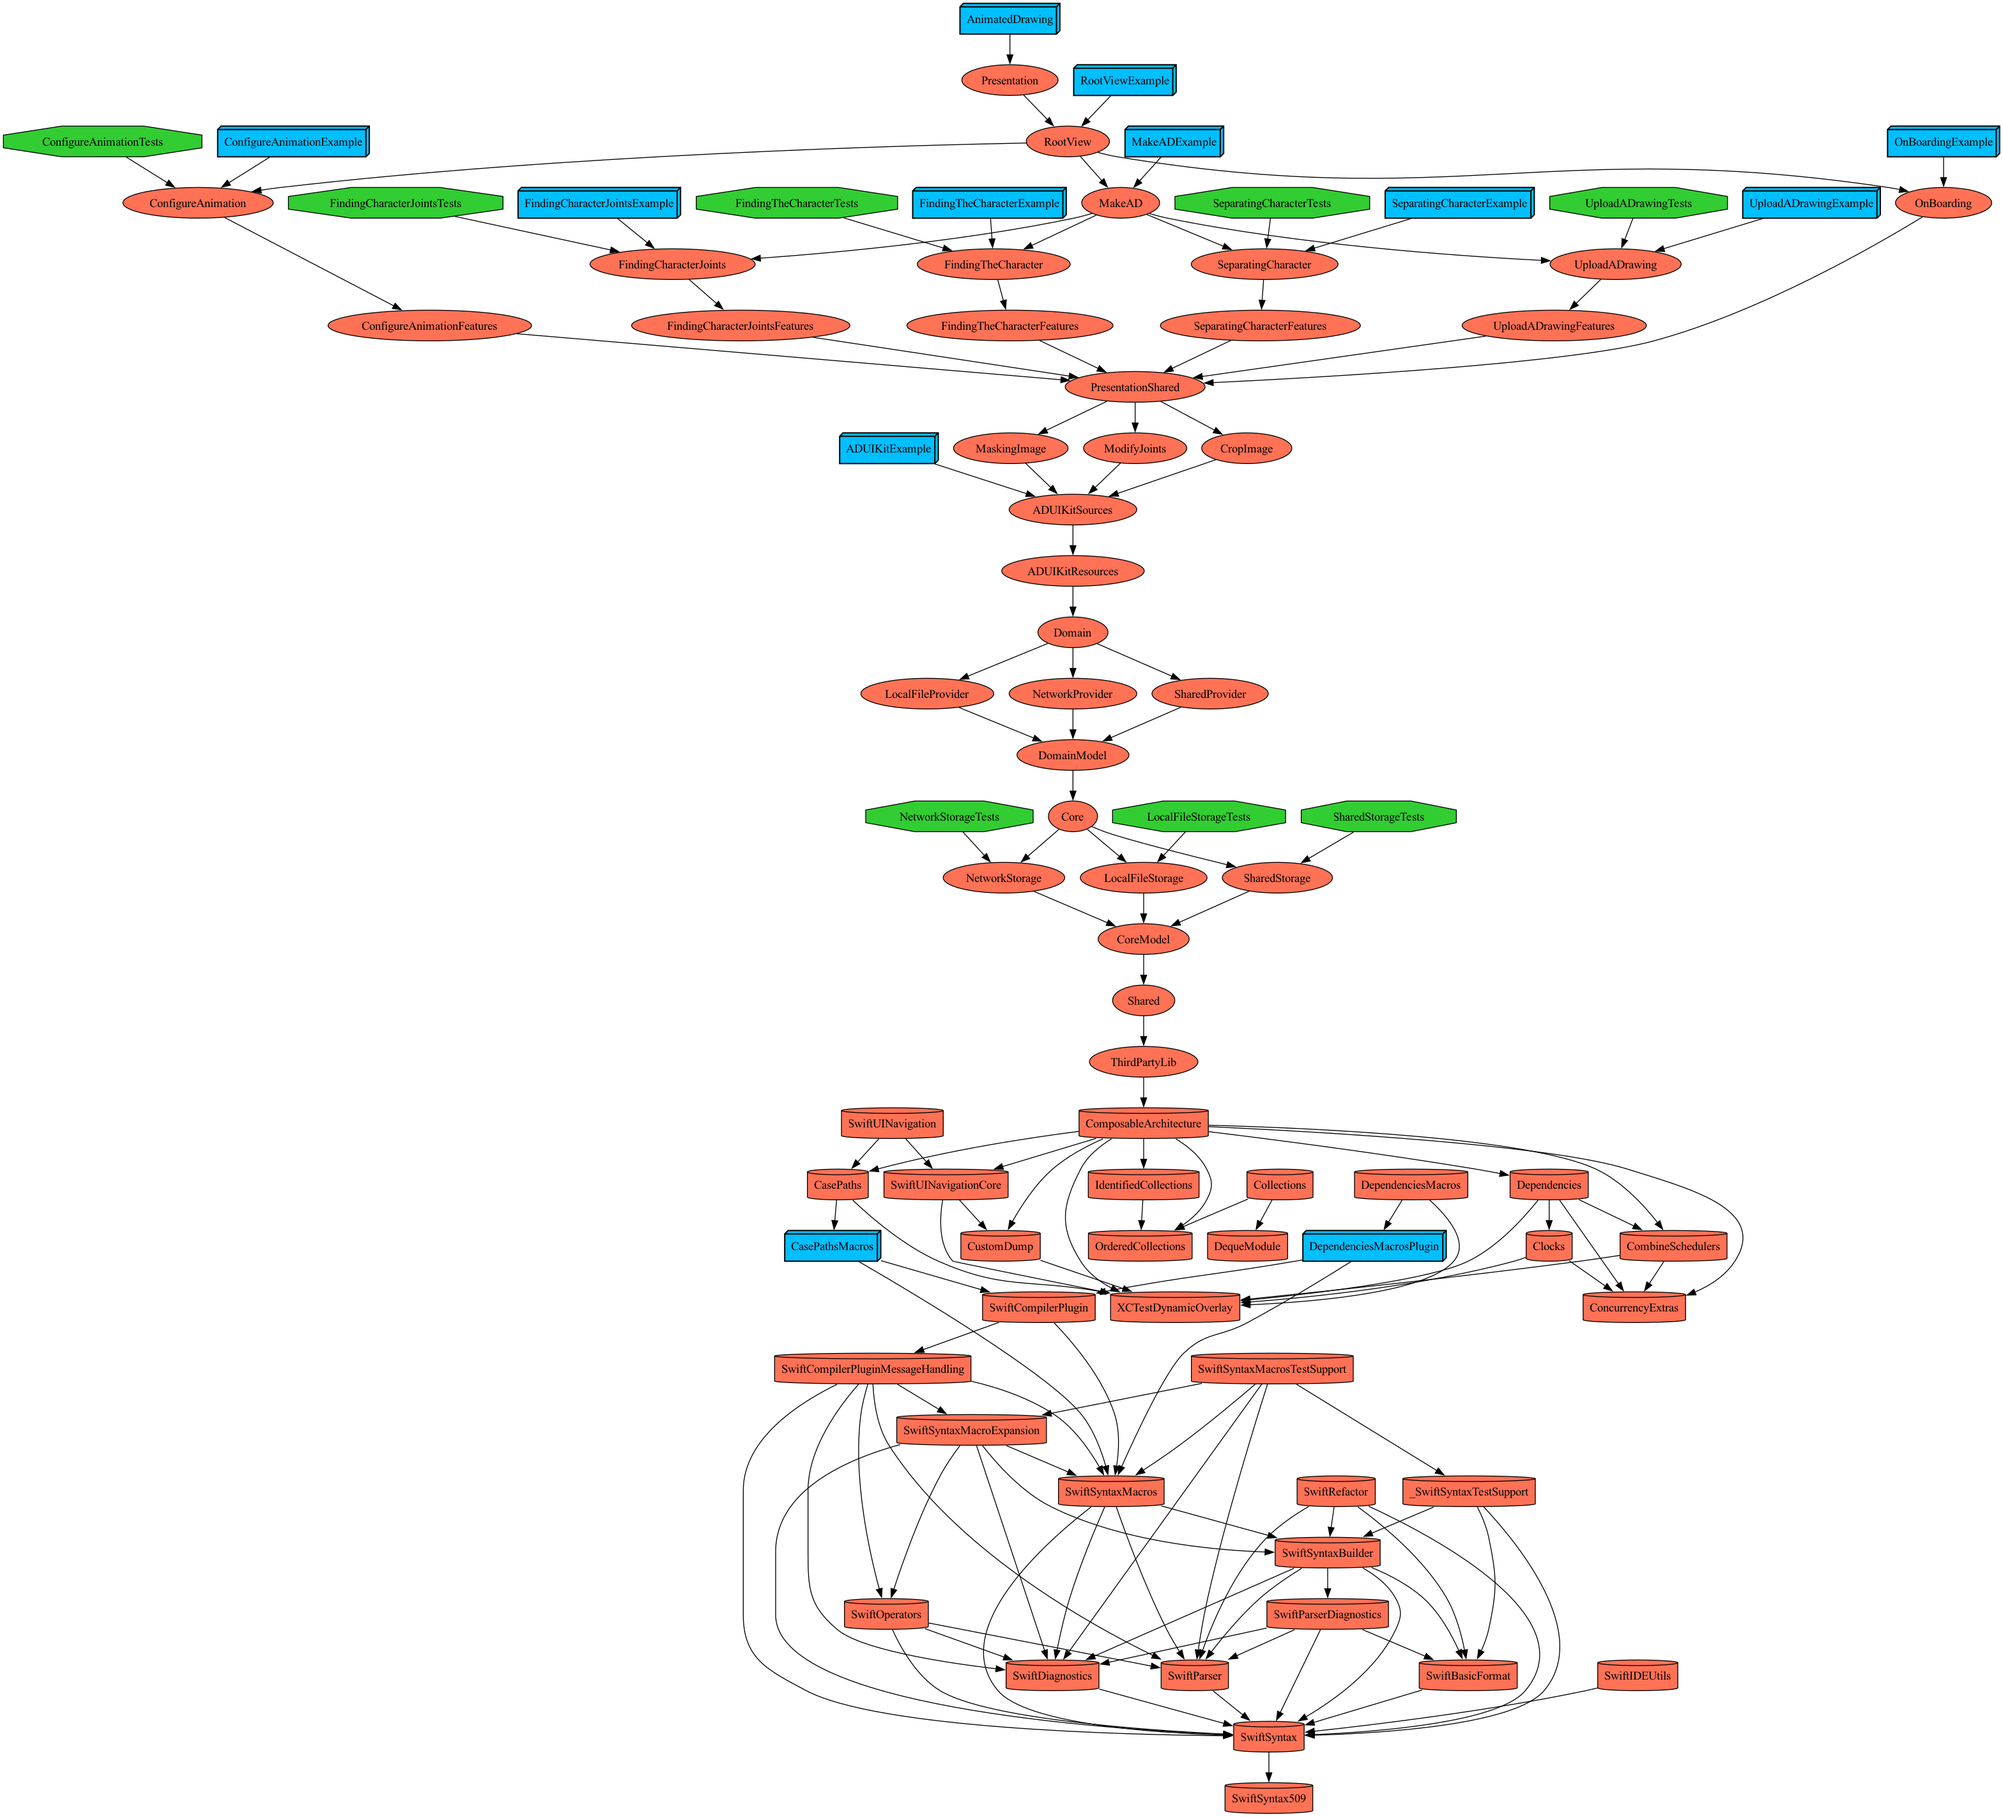
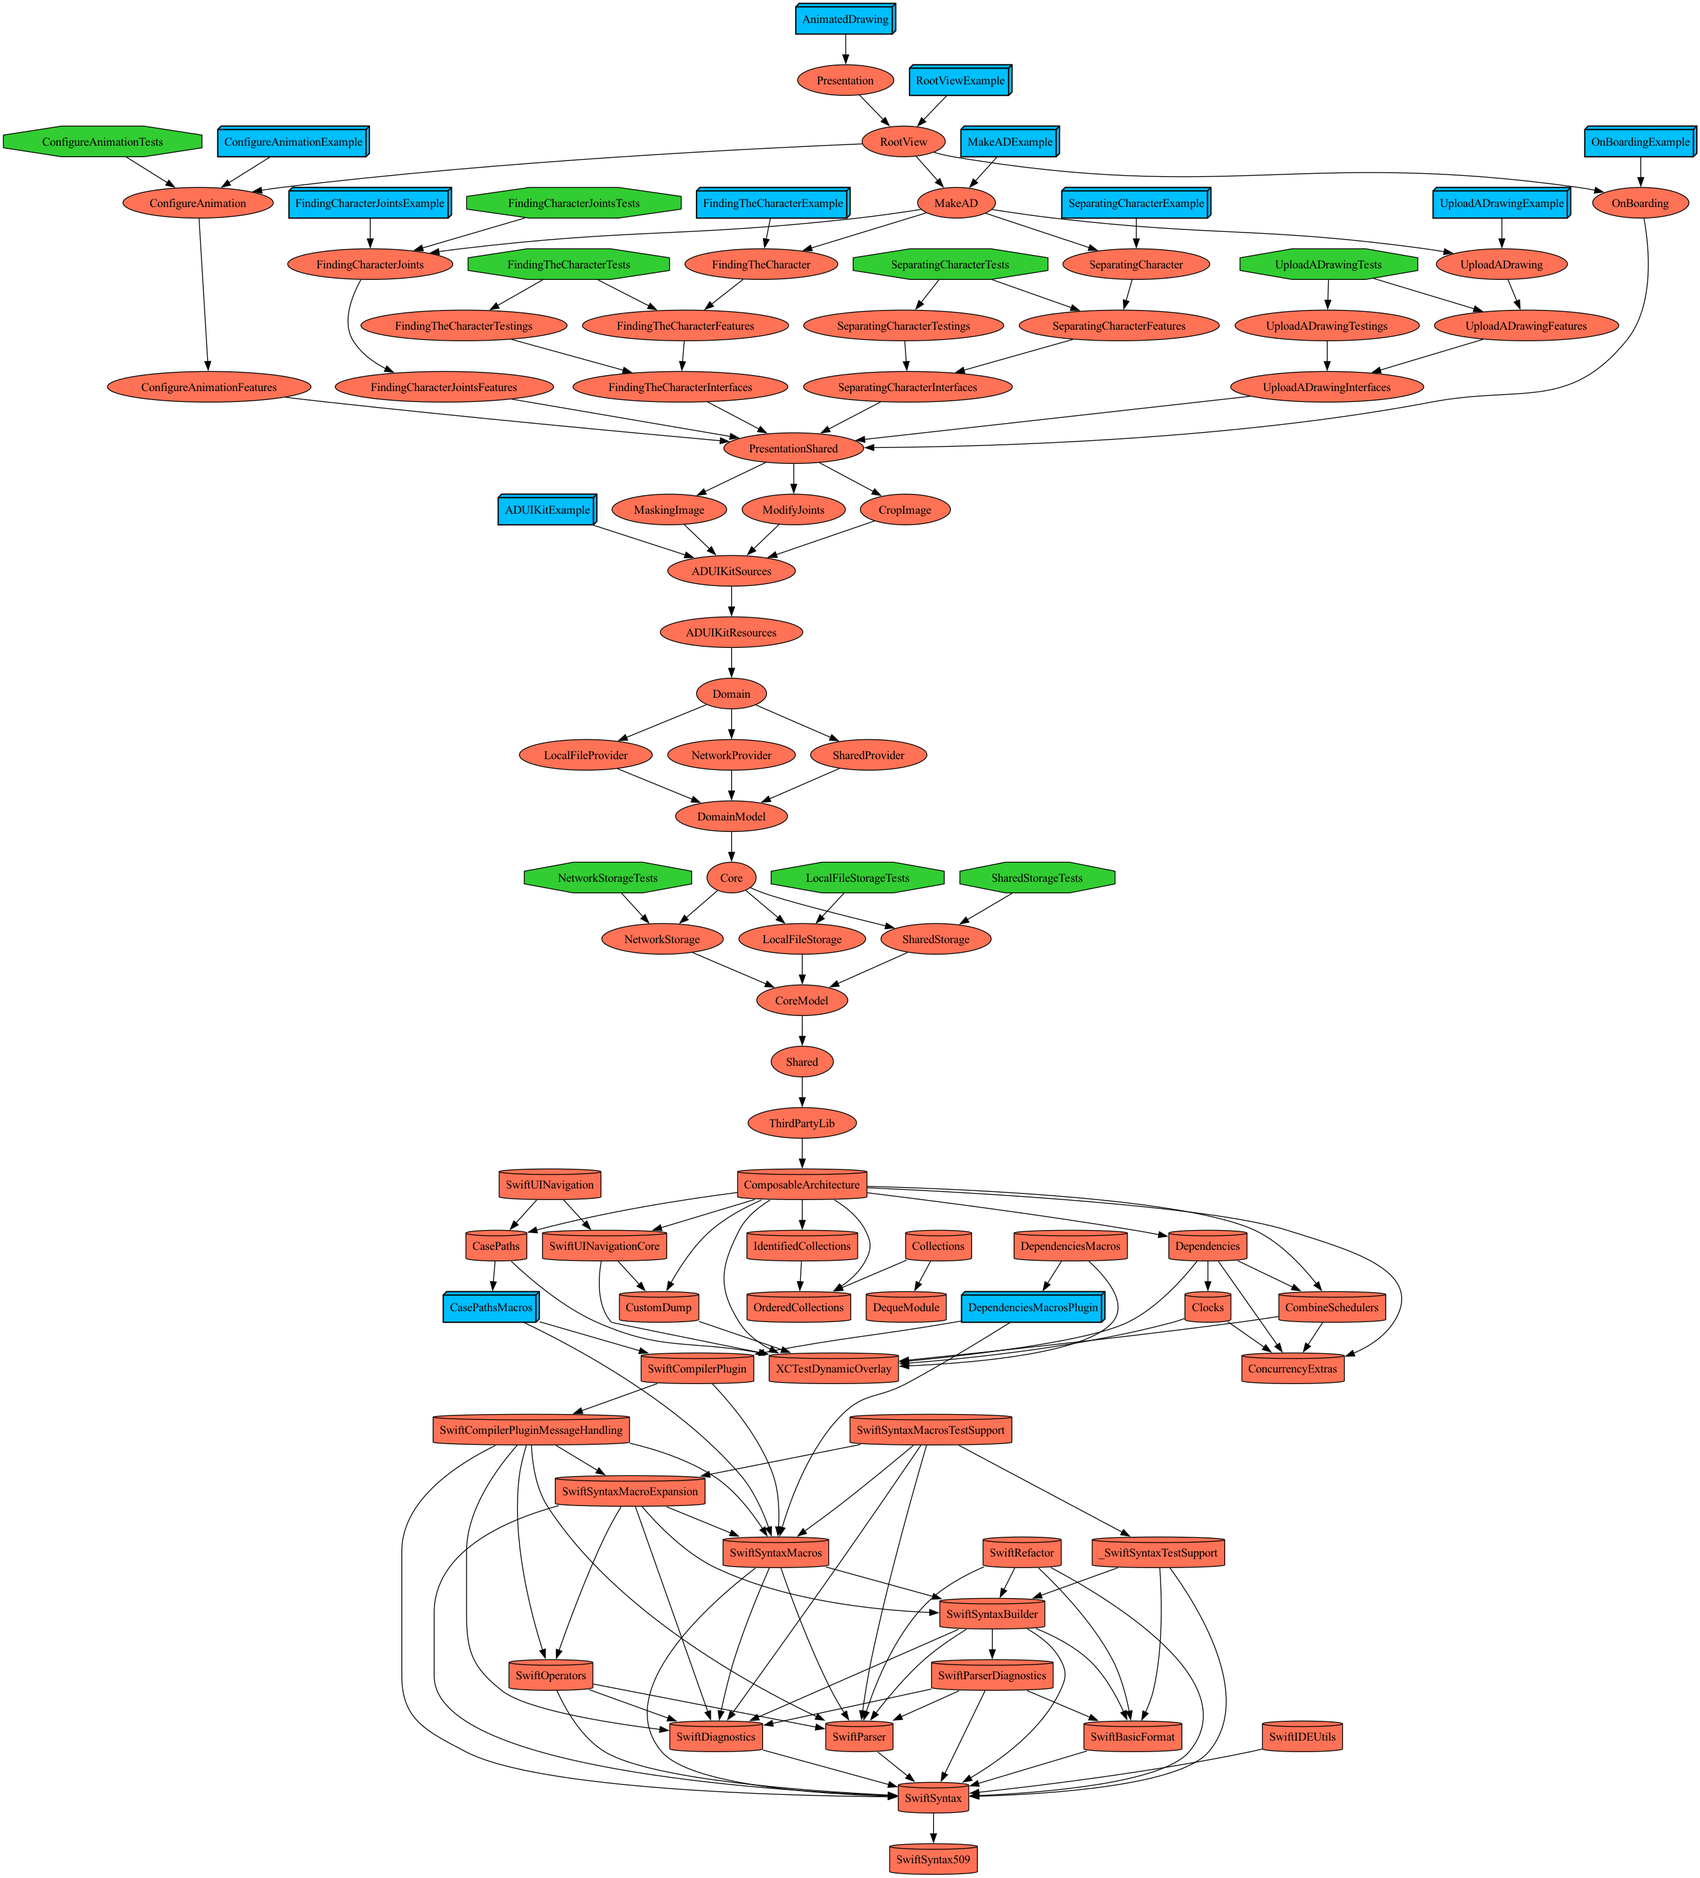
[Refactor] : Presentation Module 리팩토링
Example, Views, Features, Testings, Tests, Interfaces

Git : #79

Changed region(s): [[0.0, 0.0, 1.0, 1.0]]

diff --git a/Plugins/ProjectEnvironment/ProjectDescriptionHelpers/uFeatureModule.swift b/Plugins/ProjectEnvironment/ProjectDescriptionHelpers/uFeatureModule.swift
@@ -1,0 +1,159 @@
+//
+//  uFeatureModule.swift
+//  ProjectEnvironment
+//
+//  Created by chminii on 1/7/24.
+//
+
+import ProjectDescription
+
+public protocol uFeatureModule: Module {}
+
+public extension uFeatureModule {
+  static func uPresentationTargets(dependency: TargetDependency) -> [Target] {
+    return [
+      exampleTarget(),
+      viewsTarget(),
+      featuresTarget(name: featuresUPresentationName),
+      testsTarget(dependencyName: featuresUPresentationName),
+      testingsTarget(),
+      interfacesTarget(dependencies: [dependency])
+    ]
+  }
+  
+  static func uPresentationTargets(dependencies: [TargetDependency]) -> [Target] {
+    return [
+      exampleTarget(),
+      viewsTarget(),
+      featuresTarget(name: featuresUPresentationName),
+      testsTarget(dependencyName: featuresUPresentationName),
+      testingsTarget(),
+      interfacesTarget(dependencies: dependencies)
+    ]
+  }
+  
+  static func uCoreTargets(dependency: TargetDependency) -> [Target] {
+    return [
+      testsTarget(dependencyName: featuresUCoreName),
+      testingsTarget(),
+      featuresTarget(name: featuresUCoreName),
+      interfacesTarget(dependencies: [dependency])
+    ]
+  }
+  
+  static func uCoreTargets(dependencies: [TargetDependency]) -> [Target] {
+    return [
+      testsTarget(dependencyName: featuresUCoreName),
+      testingsTarget(),
+      featuresTarget(name: featuresUCoreName),
+      interfacesTarget(dependencies: dependencies)
+    ]
+  }
+}
+
+public extension uFeatureModule {
+  static var exampleName: String {
+    Self.targetName + "Example"
+  }
+  
+  static var viewsName: String {
+    Self.targetName
+  }
+  
+  static var featuresUPresentationName: String {
+    Self.targetName + "Features"
+  }
+  
+  static var featuresUCoreName: String {
+    Self.targetName
+  }
+  
+  static var interfacesName: String {
+    Self.targetName + "Interfaces"
+  }
+  
+  static var testsName: String {
+    Self.targetName + "Tests"
+  }
+  
+  static var testingsName: String {
+    Self.targetName + "Testings"
+  }
+}
+
+public extension uFeatureModule {
+  static func exampleTarget() -> Target {
+    .makeTarget(
+      targetName: exampleName,
+      product: .app,
+      infoPlist: .AD,
+      sources: ["Example/**", "Views/**"],
+      resources: nil,
+      dependencies: [
+        .target(name: viewsName)
+      ]
+    )
+  }
+  
+  static func viewsTarget() -> Target {
+    .makeTarget(
+      targetName: viewsName,
+      product: .staticLibrary,
+      sources: ["Views/**"],
+      resources: nil,
+      dependencies: [
+        .target(name: featuresUPresentationName)
+      ]
+    )
+  }
+  
+  static func featuresTarget(name: String) -> Target {
+    .makeTarget(
+      targetName: name,
+      product: .staticLibrary,
+      sources: ["Features/**"],
+      resources: nil,
+      dependencies: [
+        .target(name: interfacesName)
+      ]
+    )
+  }
+  
+  static func testsTarget(dependencyName: String) -> Target {
+    .makeTarget(
+      targetName: testsName,
+      platform: .iOS,
+      product: .unitTests,
+      sources: ["Tests/**"],
+      resources: nil,
+      dependencies: [
+        .target(name: testingsName),
+        .target(name: dependencyName)
+      ]
+    )
+  }
+  
+  // product?
+  static func testingsTarget() -> Target {
+    .makeTarget(
+      targetName: testingsName,
+      platform: .iOS,
+      product: .staticLibrary,
+      sources: ["Testings/**"],
+      resources: nil,
+      dependencies: [
+        .target(name: interfacesName)
+      ]
+    )
+  }
+  
+  static func interfacesTarget(dependencies: [TargetDependency]) -> Target {
+    .makeTarget(
+      targetName: interfacesName,
+      product: .staticLibrary,
+      sources: ["Interfaces/**"],
+      resources: nil,
+      dependencies: dependencies
+    )
+  }
+}

diff --git a/Projects/Presentation/SeparatingCharacter/Project.swift b/Projects/Presentation/SeparatingCharacter/Project.swift
@@ -11,14 +11,8 @@ import ProjectEnvironment
 let project: Project = .makeProject(
   name: SeparatingCharacter.projectName,
   options: .enableCodeCoverage,
-  targets: [
-    SeparatingCharacter.example(),
-    SeparatingCharacter.views(),
-    SeparatingCharacter.features(
-      dependencies: [
-        PresentationShared.projectDepedency
-      ]
-    ),
-    SeparatingCharacter.tests()
-  ]
+  targets: SeparatingCharacter
+    .uPresentationTargets(
+      dependency: PresentationShared.projectDepedency
+    )
 )

diff --git a/Projects/Presentation/FindingTheCharacter/Project.swift b/Projects/Presentation/FindingTheCharacter/Project.swift
@@ -11,14 +11,7 @@ import ProjectEnvironment
 let project: Project = .makeProject(
   name: FindingTheCharacter.projectName,
   options: .enableCodeCoverage,
-  targets: [
-    FindingTheCharacter.example(),
-    FindingTheCharacter.views(),
-    FindingTheCharacter.features(
-      dependencies: [
-        PresentationShared.projectDepedency
-      ]
-    ),
-    FindingTheCharacter.tests()
-  ]
+  targets: FindingTheCharacter.uPresentationTargets(
+    dependency: PresentationShared.projectDepedency
+  )
 )

diff --git a/Plugins/ProjectEnvironment/ProjectDescriptionHelpers/ADModules/Presentation/SeparatingCharacter.swift b/Plugins/ProjectEnvironment/ProjectDescriptionHelpers/ADModules/Presentation/SeparatingCharacter.swift
@@ -2,12 +2,12 @@
 //  SeparatingCharacter.swift
 //  ProjectEnvironment
 //
-//  Created by minii on 2023/10/03.
+//  Created by chminii on 1/7/24.
 //
 
 import Foundation
 
-public struct SeparatingCharacter: PresentationModule {
+public struct SeparatingCharacter: uFeatureModule {
   public static var projectName: String = "SeparatingCharacter"
   public static var targetName: String = "SeparatingCharacter"
   public static var prefixPathString: String = Presentation.prefixPathString

diff --git a/Projects/Presentation/UploadADrawing/Project.swift b/Projects/Presentation/UploadADrawing/Project.swift
@@ -11,14 +11,7 @@ import ProjectEnvironment
 let project: Project = .makeProject(
   name: UploadADrawing.projectName,
   options: .enableCodeCoverage,
-  targets: [
-    UploadADrawing.example(),
-    UploadADrawing.views(),
-    UploadADrawing.features(
-      dependencies: [
-        PresentationShared.projectDepedency
-      ]
-    ),
-    UploadADrawing.tests()
-  ]
+  targets: UploadADrawing.uPresentationTargets(
+    dependency: PresentationShared.projectDepedency
+  )
 )

diff --git a/Plugins/ProjectEnvironment/ProjectDescriptionHelpers/ADModules/Presentation/UploadADrawing.swift b/Plugins/ProjectEnvironment/ProjectDescriptionHelpers/ADModules/Presentation/UploadADrawing.swift
@@ -2,12 +2,12 @@
 //  UploadADrawing.swift
 //  ProjectEnvironment
 //
-//  Created by minii on 2023/10/03.
+//  Created by chminii on 1/7/24.
 //
 
 import Foundation
 
-public struct UploadADrawing: PresentationModule {
+public struct UploadADrawing: uFeatureModule {
   public static var projectName: String = "UploadADrawing"
   public static var targetName: String = "UploadADrawing"
   public static var prefixPathString: String = Presentation.prefixPathString

diff --git a/Plugins/ProjectEnvironment/ProjectDescriptionHelpers/ADModules/Presentation/FindingTheCharacter.swift b/Plugins/ProjectEnvironment/ProjectDescriptionHelpers/ADModules/Presentation/FindingTheCharacter.swift
@@ -7,7 +7,7 @@
 
 import Foundation
 
-public struct FindingTheCharacter: PresentationModule {
+public struct FindingTheCharacter: uFeatureModule {
   public static var projectName: String = "FindingTheCharacter"
   public static var targetName: String = "FindingTheCharacter"
   public static var prefixPathString: String = Presentation.prefixPathString

diff --git a/Projects/Presentation/FindingTheCharacter/Interfaces/tmp.swift b/Projects/Presentation/FindingTheCharacter/Interfaces/tmp.swift
@@ -1,0 +1,8 @@
+//
+//  tmp.swift
+//  Config
+//
+//  Created by chminii on 1/7/24.
+//
+
+import Foundation

diff --git a/Projects/Presentation/FindingTheCharacter/Testings/tmp.swift b/Projects/Presentation/FindingTheCharacter/Testings/tmp.swift
@@ -1,0 +1,8 @@
+//
+//  tmp.swift
+//  Config
+//
+//  Created by chminii on 1/7/24.
+//
+
+import Foundation

diff --git a/Projects/Presentation/SeparatingCharacter/Interfaces/tmp.swift b/Projects/Presentation/SeparatingCharacter/Interfaces/tmp.swift
@@ -1,0 +1,8 @@
+//
+//  tmp.swift
+//  Config
+//
+//  Created by chminii on 1/7/24.
+//
+
+import Foundation

diff --git a/Projects/Presentation/SeparatingCharacter/Testings/tmp.swift b/Projects/Presentation/SeparatingCharacter/Testings/tmp.swift
@@ -1,0 +1,8 @@
+//
+//  tmp.swift
+//  Config
+//
+//  Created by chminii on 1/7/24.
+//
+
+import Foundation

diff --git a/Projects/Presentation/UploadADrawing/Interfaces/tmp.swift b/Projects/Presentation/UploadADrawing/Interfaces/tmp.swift
@@ -1,0 +1,8 @@
+//
+//  tmp.swift
+//  Config
+//
+//  Created by chminii on 1/7/24.
+//
+
+import Foundation
